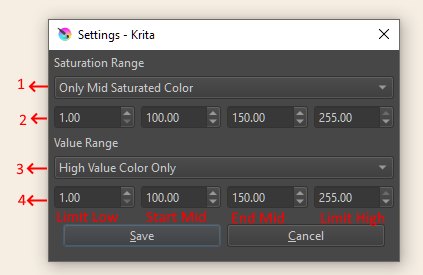
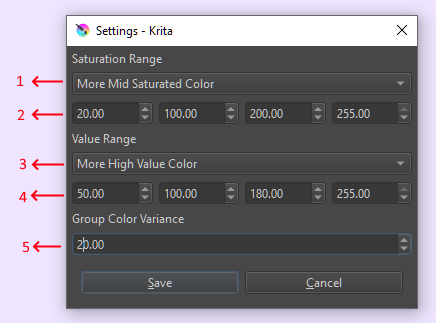
Add Group Color Variance Setting, Allow dialog to popup on Left if docker is on right side of screen.

diff --git a/PaletteGenerator/PaletteGenerator.py b/PaletteGenerator/PaletteGenerator.py
@@ -34,7 +34,7 @@ from PyQt5.QtCore import ( Qt, QSize,  QTimer, QPoint )
 from PyQt5.QtWidgets import ( 
         QVBoxLayout,  QGridLayout,  QHBoxLayout, 
         QPushButton, QWidget, QLabel, QComboBox,
-        QToolButton  
+        QToolButton, QDesktopWidget  
 )
 
 
@@ -71,8 +71,8 @@ class PaletteGenerator(DockWidget):
 
         self.setting_dialog = None
         self.hsv_dialog = None
-        self.svpalette_dialog = None
-        
+        self.svpalette_dialog = None 
+
         self.useFG = False
 
         self.setUI()
@@ -257,8 +257,12 @@ class PaletteGenerator(DockWidget):
         self.moveDialog(self.svpalette_dialog)  
 
     def moveDialog(self, dialog):
-        gp = self.mapToGlobal(QPoint(0, 0))    
-        dialog.move(gp.x() + self.frameGeometry().width() + 10, gp.y() + 30)  
+        gp = self.mapToGlobal(QPoint(0, 0))     
+         
+        if self.x() < ( QDesktopWidget().screenGeometry().width() // 2) : 
+            dialog.move(gp.x() + self.frameGeometry().width() + 10, gp.y() + 30) 
+        else:  
+            dialog.move(gp.x() - (dialog.frameGeometry().width() + 5 )  , gp.y() + 30) 
 
     #Palette Scheme Chooser
     def generatePalette(self):
@@ -266,6 +270,7 @@ class PaletteGenerator(DockWidget):
         
         cm =  self.color_manager 
         cm.reloadSettings(self.settings) 
+        
         if(self.combo_color_opt.currentIndex() == 0):
             self.generateMonochromatic(cm)
         elif(self.combo_color_opt.currentIndex() == 1):
@@ -338,6 +343,7 @@ class PaletteGenerator(DockWidget):
              
         
         self.printHSV() 
+        cm.reloadSettings(self.settings)
             
 
     def generateAccentedAchromatic(self, cm):
@@ -346,9 +352,10 @@ class PaletteGenerator(DockWidget):
 
         self.main_color.setColorHSV( hsv["hue"], hsv["sat"], hsv["val"]) 
          
+        cv = [-1* self.settings["color_variance"],self.settings["color_variance"]] 
         for r in range(0,  self.grid_count):
             random.seed() 
-            self.color_grid[r][0].setColorHSV( cm.setHue(hsv["hue"], random.randint(-1 * 10, 10)), cm.setSat(), cm.setVal())
+            self.color_grid[r][0].setColorHSV( cm.setHue(hsv["hue"], random.randint(cv[0],cv[1])), cm.setSat(), cm.setVal())
  
         
         cm.settings["saturation_cutoff"]["low"]   = 0
@@ -377,7 +384,7 @@ class PaletteGenerator(DockWidget):
         
 
     def generateAnalogous(self, cm): 
-
+        
         hsv = self.getHSV(cm)  
 
         self.main_color.setColorHSV( hsv["hue"], hsv["sat"], hsv["val"]) 
@@ -387,22 +394,24 @@ class PaletteGenerator(DockWidget):
         hues.append(cm.setHue(hsv["hue"] -  random.randint(25,60)))
         hues.append(cm.setHue(hsv["hue"] +  random.randint(25,60))) 
         random.shuffle(hues)
-         
+
+        cv = [-1* self.settings["color_variance"],self.settings["color_variance"]]      
         for r in range(0,  self.grid_count):
             for c in range(0,  3): 
                 random.seed() 
-                self.color_grid[r][c].setColorHSV( cm.setHue(hsv["hue"], random.randint(-2,2)), cm.setSat(), cm.setVal())  
+                self.color_grid[r][c].setColorHSV( cm.setHue(hsv["hue"], random.randint(cv[0],cv[1])), cm.setSat(), cm.setVal())  
             
             for c in range(3,  5): 
                 random.seed() 
-                self.color_grid[r][c].setColorHSV( cm.setHue(hues[0], random.randint(-2,2) ), cm.setSat(), cm.setVal())  
+                self.color_grid[r][c].setColorHSV( cm.setHue(hues[0], random.randint(cv[0],cv[1]) ), cm.setSat(), cm.setVal())  
 
             for c in range(5,  6): 
                 random.seed() 
-                self.color_grid[r][c].setColorHSV( cm.setHue(hues[1], random.randint(-2,2) ), cm.setSat(), cm.setVal())  
+                self.color_grid[r][c].setColorHSV( cm.setHue(hues[1], random.randint(cv[0],cv[1]) ), cm.setSat(), cm.setVal())  
 
         
         self.printHSV() 
+        cm.reloadSettings(self.settings)
  
         #self.button_generate.setText("Analogous")
         pass
@@ -414,17 +423,19 @@ class PaletteGenerator(DockWidget):
         self.main_color.setColorHSV( hsv["hue"], hsv["sat"], hsv["val"]) 
         comp_color = cm.setHue(hsv["hue"] + 180) 
      
+        cv = [-1* self.settings["color_variance"],self.settings["color_variance"]]      
         for r in range(0,  self.grid_count):
             for c in range(0,  3): 
                 random.seed() 
-                self.color_grid[r][c].setColorHSV( cm.setHue(hsv["hue"], random.randint(-2,2)), cm.setSat(), cm.setVal())  
+                self.color_grid[r][c].setColorHSV( cm.setHue(hsv["hue"], random.randint(cv[0],cv[1])), cm.setSat(), cm.setVal())  
             
             for c in range(3,  6): 
                 random.seed() 
-                self.color_grid[r][c].setColorHSV( cm.setHue(comp_color, random.randint(-2,2) ), cm.setSat(), cm.setVal())  
+                self.color_grid[r][c].setColorHSV( cm.setHue(comp_color, random.randint(cv[0],cv[1]) ), cm.setSat(), cm.setVal())  
 
         
         self.printHSV() 
+        cm.reloadSettings(self.settings)
  
 
     def generateSplitComplementary(self, cm): 
@@ -439,22 +450,25 @@ class PaletteGenerator(DockWidget):
         hues.append(cm.setHue(hsv["hue"] + (180 - random.randint(15,50)))) 
         random.shuffle(hues)
  
+ 
+        cv = [-1* self.settings["color_variance"],self.settings["color_variance"]]      
         for r in range(0,  self.grid_count):
             for c in range(0,  3): 
                 random.seed() 
-                self.color_grid[r][c].setColorHSV( cm.setHue(hsv["hue"], random.randint(-2,2)), cm.setSat(), cm.setVal())  
+                self.color_grid[r][c].setColorHSV( cm.setHue(hsv["hue"], random.randint(cv[0],cv[1])), cm.setSat(), cm.setVal())  
             
             for c in range(3,  5): 
                 random.seed() 
-                self.color_grid[r][c].setColorHSV( cm.setHue(hues[0], random.randint(-2,2) ), cm.setSat(), cm.setVal())  
+                self.color_grid[r][c].setColorHSV( cm.setHue(hues[0], random.randint(cv[0],cv[1]) ), cm.setSat(), cm.setVal())  
 
             for c in range(5,  6): 
                 random.seed() 
-                self.color_grid[r][c].setColorHSV( cm.setHue(hues[1], random.randint(-2,2) ), cm.setSat(), cm.setVal())  
+                self.color_grid[r][c].setColorHSV( cm.setHue(hues[1], random.randint(cv[0],cv[1]) ), cm.setSat(), cm.setVal())  
         #self.button_generate.setText("Split Complementary")
         
         self.printHSV() 
-        pass
+        cm.reloadSettings(self.settings)
+         
 
     def generateDblSplitComplementary(self, cm):
      
@@ -469,24 +483,27 @@ class PaletteGenerator(DockWidget):
         hues.append(cm.setHue(hues[0] + (180 - random.randint(-5,5))))  
         random.shuffle(hues)  
 
+
+        cv = [-1* self.settings["color_variance"],self.settings["color_variance"]]      
         for r in range(0,  self.grid_count):
             for c in range(0,  2): 
                 random.seed() 
-                self.color_grid[r][c].setColorHSV( cm.setHue(hsv["hue"], random.randint(-2,2)), cm.setSat(), cm.setVal())  
+                self.color_grid[r][c].setColorHSV( cm.setHue(hsv["hue"], random.randint(cv[0],cv[1])), cm.setSat(), cm.setVal())  
             
             for c in range(2,  4): 
                 random.seed() 
-                self.color_grid[r][c].setColorHSV( cm.setHue(hues[0], random.randint(-2,2)), cm.setSat(), cm.setVal())  
+                self.color_grid[r][c].setColorHSV( cm.setHue(hues[0], random.randint(cv[0],cv[1])), cm.setSat(), cm.setVal())  
 
             for c in range(4,  5): 
                 random.seed() 
-                self.color_grid[r][c].setColorHSV( cm.setHue(hues[1], random.randint(-2,2)), cm.setSat(), cm.setVal())  
+                self.color_grid[r][c].setColorHSV( cm.setHue(hues[1], random.randint(cv[0],cv[1])), cm.setSat(), cm.setVal())  
                 
             for c in range(5,  6): 
                 random.seed() 
-                self.color_grid[r][c].setColorHSV( cm.setHue(hues[2], random.randint(-2,2)), cm.setSat(), cm.setVal())  
+                self.color_grid[r][c].setColorHSV( cm.setHue(hues[2], random.randint(cv[0],cv[1])), cm.setSat(), cm.setVal())  
         
-        self.printHSV() 
+        self.printHSV()
+        cm.reloadSettings(self.settings) 
 
     def generateTriadic(self, cm):
          
@@ -500,21 +517,24 @@ class PaletteGenerator(DockWidget):
         hues.append(cm.setHue(hues[0] + 120)) 
         random.shuffle(hues)  
         
+        
+        cv = [-1* self.settings["color_variance"],self.settings["color_variance"]]      
         for r in range(0,  self.grid_count):
             for c in range(0,  3): 
                 random.seed() 
-                self.color_grid[r][c].setColorHSV( cm.setHue(hsv["hue"], random.randint(-2,2)), cm.setSat(), cm.setVal())  
+                self.color_grid[r][c].setColorHSV( cm.setHue(hsv["hue"], random.randint(cv[0],cv[1])), cm.setSat(), cm.setVal())  
             
             for c in range(3,  5): 
                 random.seed() 
-                self.color_grid[r][c].setColorHSV( cm.setHue(hues[0], random.randint(-2,2) ), cm.setSat(), cm.setVal())  
+                self.color_grid[r][c].setColorHSV( cm.setHue(hues[0], random.randint(cv[0],cv[1]) ), cm.setSat(), cm.setVal())  
 
             for c in range(5,  6): 
                 random.seed() 
-                self.color_grid[r][c].setColorHSV( cm.setHue(hues[1], random.randint(-2,2) ), cm.setSat(), cm.setVal()) 
+                self.color_grid[r][c].setColorHSV( cm.setHue(hues[1], random.randint(cv[0],cv[1]) ), cm.setSat(), cm.setVal()) 
             
             
         self.printHSV() 
+        cm.reloadSettings(self.settings)
       
 
     def generateTetradicSquare(self, cm):
@@ -531,24 +551,27 @@ class PaletteGenerator(DockWidget):
         hues.append(cm.setHue(hues[1] + 90)) 
         random.shuffle(hues)  
         
+        
+        cv = [-1* self.settings["color_variance"],self.settings["color_variance"]]      
         for r in range(0,  self.grid_count):
             for c in range(0,  2): 
                 random.seed() 
-                self.color_grid[r][c].setColorHSV( cm.setHue(hsv["hue"], random.randint(-2,2)), cm.setSat(), cm.setVal())  
+                self.color_grid[r][c].setColorHSV( cm.setHue(hsv["hue"], random.randint(cv[0],cv[1])), cm.setSat(), cm.setVal())  
             
             for c in range(2,  4): 
                 random.seed() 
-                self.color_grid[r][c].setColorHSV( cm.setHue(hues[0], random.randint(-2,2)), cm.setSat(), cm.setVal())  
+                self.color_grid[r][c].setColorHSV( cm.setHue(hues[0], random.randint(cv[0],cv[1])), cm.setSat(), cm.setVal())  
 
             for c in range(4,  5): 
                 random.seed() 
-                self.color_grid[r][c].setColorHSV( cm.setHue(hues[1], random.randint(-2,2)), cm.setSat(), cm.setVal())  
+                self.color_grid[r][c].setColorHSV( cm.setHue(hues[1], random.randint(cv[0],cv[1])), cm.setSat(), cm.setVal())  
                 
             for c in range(5,  6): 
                 random.seed() 
-                self.color_grid[r][c].setColorHSV( cm.setHue(hues[2], random.randint(-2,2)), cm.setSat(), cm.setVal())  
+                self.color_grid[r][c].setColorHSV( cm.setHue(hues[2], random.randint(cv[0],cv[1])), cm.setSat(), cm.setVal())  
         
         self.printHSV() 
+        cm.reloadSettings(self.settings)
         pass
 
     def generateTetradicRectangle(self, cm):
@@ -566,24 +589,26 @@ class PaletteGenerator(DockWidget):
 
         random.shuffle(hues)  
         
+        cv = [-1* self.settings["color_variance"],self.settings["color_variance"]]      
         for r in range(0,  self.grid_count):
             for c in range(0,  2): 
                 random.seed() 
-                self.color_grid[r][c].setColorHSV( cm.setHue(hsv["hue"], random.randint(-2,2)), cm.setSat(), cm.setVal())  
+                self.color_grid[r][c].setColorHSV( cm.setHue(hsv["hue"], random.randint(cv[0],cv[1])), cm.setSat(), cm.setVal())  
             
             for c in range(2,  4): 
                 random.seed() 
-                self.color_grid[r][c].setColorHSV( cm.setHue(hues[0], random.randint(-2,2)), cm.setSat(), cm.setVal())  
+                self.color_grid[r][c].setColorHSV( cm.setHue(hues[0], random.randint(cv[0],cv[1])), cm.setSat(), cm.setVal())  
 
             for c in range(4,  5): 
                 random.seed() 
-                self.color_grid[r][c].setColorHSV( cm.setHue(hues[1], random.randint(-2,2)), cm.setSat(), cm.setVal())  
+                self.color_grid[r][c].setColorHSV( cm.setHue(hues[1], random.randint(cv[0],cv[1])), cm.setSat(), cm.setVal())  
                 
             for c in range(5,  6): 
                 random.seed() 
-                self.color_grid[r][c].setColorHSV( cm.setHue(hues[2], random.randint(-2,2)), cm.setSat(), cm.setVal())  
+                self.color_grid[r][c].setColorHSV( cm.setHue(hues[2], random.randint(cv[0],cv[1])), cm.setSat(), cm.setVal())  
         
         self.printHSV() 
+        cm.reloadSettings(self.settings)
     
     def printHSV(self): 
         if self.hsv_dialog :

diff --git a/PaletteGenerator/PG_SettingsDialog.py b/PaletteGenerator/PG_SettingsDialog.py
@@ -118,6 +118,9 @@ class SettingsDialog(QDialog):
         self.dsb_val_high.setToolTip("Value Upper Bound Start")
         self.dsb_val_lim.setToolTip("Value Upper Bound Limit") 
  
+        self.label_variance = QLabel("Group Color Variance")
+        self.dsb_color_variance = DoubleSpinBox(2,90,1)
+
 
         self.roll_container.addWidget(self.label_sat, 2, 0, 1, 8)
         self.roll_container.addWidget(self.combo_sat, 3, 0, 1, 8)
@@ -134,6 +137,10 @@ class SettingsDialog(QDialog):
         self.roll_container.addWidget(self.dsb_val_mid,     7, 2, 1, 2)
         self.roll_container.addWidget(self.dsb_val_high,    7, 4, 1, 2)
         self.roll_container.addWidget(self.dsb_val_lim,     7, 6, 1, 2) 
+
+        
+        self.roll_container.addWidget(self.label_variance,     8, 0, 1, 7) 
+        self.roll_container.addWidget(self.dsb_color_variance,     9, 0, 1, 8) 
         
         self.general_container.addWidget(self.frame_color_setting )     
 
@@ -162,6 +169,8 @@ class SettingsDialog(QDialog):
         self.dsb_val_mid.setValue(self.evalSettingValue(self.settings["value_cutoff"]["mid"], 1, 255))
         self.dsb_val_high.setValue(self.evalSettingValue(self.settings["value_cutoff"]["high"], 1, 255))
         self.dsb_val_lim.setValue(self.evalSettingValue(self.settings["value_cutoff"]["lim"], 1, 255))
+
+        self.dsb_color_variance.setValue(self.evalSettingValue(self.settings["color_variance"], 2, 90))
   
         self.color_priority_option = ["Low", "Mid", "High", "Low Only", "Mid Only", "High Only", "Normal", "Equal"]
         
@@ -180,7 +189,7 @@ class SettingsDialog(QDialog):
             elif(prio == "Normal") : self.combo_val.addItem(prio + " Distribution")
             elif "Only" in prio:  
                 word = prio.split()
-                self.combo_val.addItem(word[0]+ " Value Color Only ")
+                self.combo_sat.addItem("Only " + word[0]+ " Saturated Color")
             else: self.combo_val.addItem("More "+ prio + " Value Color" )
 
         def_sat_idx = self.color_priority_option.index(self.settings["saturation_priority"])
@@ -218,6 +227,7 @@ class SettingsDialog(QDialog):
     def saveSettings(self):   
         self.settings["saturation_priority"] = self.color_priority_option[self.combo_sat.currentIndex()]
         self.settings["value_priority"]      = self.color_priority_option[self.combo_val.currentIndex()]
+        self.settings["color_variance"]      = self.dsb_color_variance.value()
 
         self.settings["saturation_cutoff"]["low"]  = int(self.dsb_sat_low.value())
         self.settings["saturation_cutoff"]["mid"]  = int(self.dsb_sat_mid.value())

diff --git a/README.md b/README.md
@@ -51,12 +51,11 @@ Configuration is available for color odds and ranges, timer setting to categorie
 
 ![Configuration Dialog](./screenshots/ui-02.png)
 
- 
- 
 1. **Saturation Odds** : Changes the odds to favor a range of saturation 
 2. **Saturation Ranges**  : Set up the ranges of saturation points
 3. **Value Odds** : Changes the odds to favor a range of value 
 4. **Value Ranges** : Set up the ranges of value points 
+5. **Group Color Variance** : Set the variation of color within a color group
 
 
 ### *Value and Saturation Ranges Control* 
@@ -176,6 +175,11 @@ Accented Achromatic
 ![Value and Saturation Ranges](./screenshots/ui-c10.png) 
 ![Value and Saturation Ranges](./screenshots/ui-c11.png)
 
+**Sample With Group Color Variance at 40** 
+*Higher Color Variance results in more color*
+
+![Value and Saturation Ranges](./screenshots/ui-c12.png)
+
 ### Functionalities
 
 This plugin main function  are;
@@ -213,7 +217,7 @@ This plugin main function  are;
 1. Open [Krita](https://krita.org)
 2. Got to Tools -> Scripts -> **Import Python Plugins** and select 
 
-**ChallengePromptMaker.zip** archive. 
+**PaletteGenerator.zip** archive. 
 3. Restart [Krita](https://krita.org)
 4. Make sure Palette Generator is enabled in Plugin Manager. 
 if not enable it by going to Settings -> Configure Krita -> **Python Plugin Manager** and click to check **Palette Generator**.
